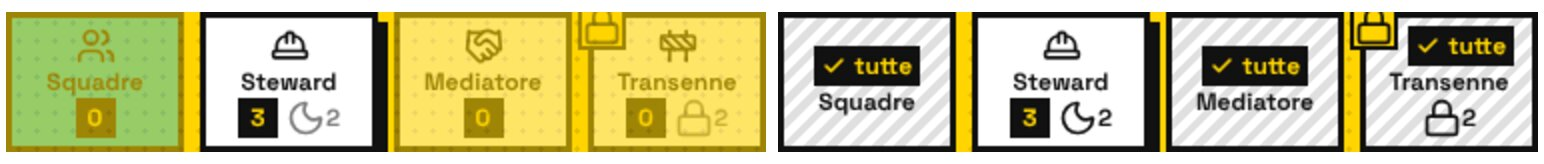
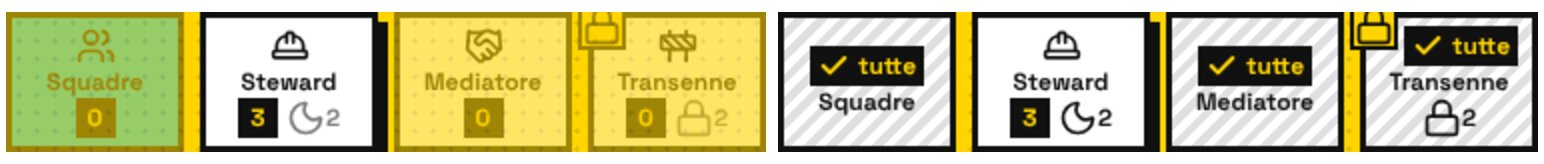
D-283 (D-09): la spunta di «tutte» misura --icona-piccola
Catena grafica a 360 su bd6d1b3 rossa al passo token: «1em» scritto a
mano (stile-d283.css:29). Ora --icona-piccola (16 px); giro d283 verde
a 360/375/412, vassoio 70 px; foto rifatte.

Changed region(s): [[0.4974, 0.2744, 0.6218, 0.5183], [0.9016, 0.1524, 0.9948, 0.3963], [0.7772, 0.2744, 0.8705, 0.5183]]

diff --git a/src/resa/stile-d283.css b/src/resa/stile-d283.css
@@ -26,7 +26,7 @@ main:not(.rosso-c283c01)[data-schermata="crediti"] .versione-angolo { display: n
 main:not(.rosso-c283f01):not(.rosso-c242m01)[data-schermata="citta"] .scena .scheda.compatta > p.avviso { padding-block: 0; border-block-width: 0; font-size: var(--testo-piccolo); } /* alta come la riga .tenue degli altri stati */
 /* «tutte» con la spunta sta dove c'è l'icona dell'unità: alta come l'icona, testo minuscolo */
 main:not(.rosso-c283e01) .unita strong.tutte { min-width: 0; height: var(--icona); padding: 0 var(--spazio-1); font-size: var(--testo-mini); text-transform: none; white-space: nowrap; display: inline-flex; align-items: center; gap: var(--spazio-1); }
-main:not(.rosso-c283e01) .unita strong.tutte svg { width: 1em; height: 1em; flex: none; } /* la spunta è un'icona: «✓» non è nei caratteri inclusi (D-257) */
+main:not(.rosso-c283e01) .unita strong.tutte svg { width: var(--icona-piccola); height: var(--icona-piccola); flex: none; } /* la spunta è un'icona: «✓» non è nei caratteri inclusi (D-257) */
 main:not(.rosso-c283e01) .unita:has(.unita-fissa) strong.tutte { margin-left: var(--spazio-3); } /* non sotto il lucchetto delle unità fisse */
 
 /* D-10 (M-8): nel verbale la nota «Mappa: …» sta sopra i pulsanti (Verbale.tsx); il margine negativo che la avvicinava ai
